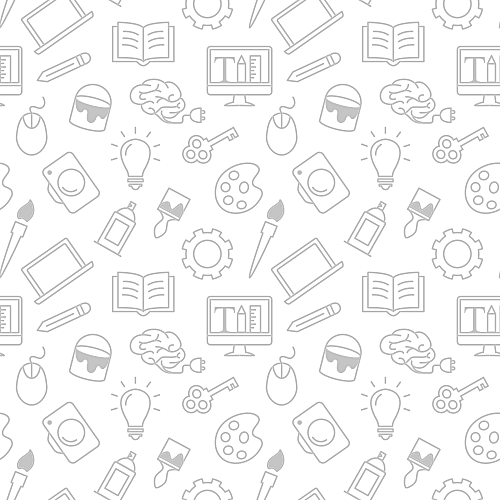
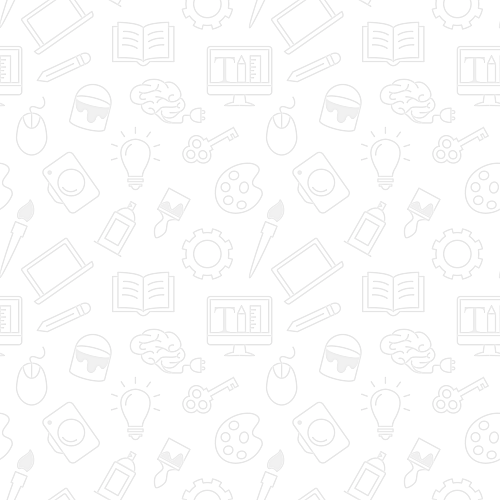
1st background final

diff --git a/public/css/dashboard.css b/public/css/dashboard.css
@@ -29,7 +29,7 @@
 
 body {
   position: relative;
-  background: url('/img/2.png');
+  background: url('/img/icons_collage.png');
   /*background-size: cover;*/
   min-width: 500px;
   min-height: 200px;
